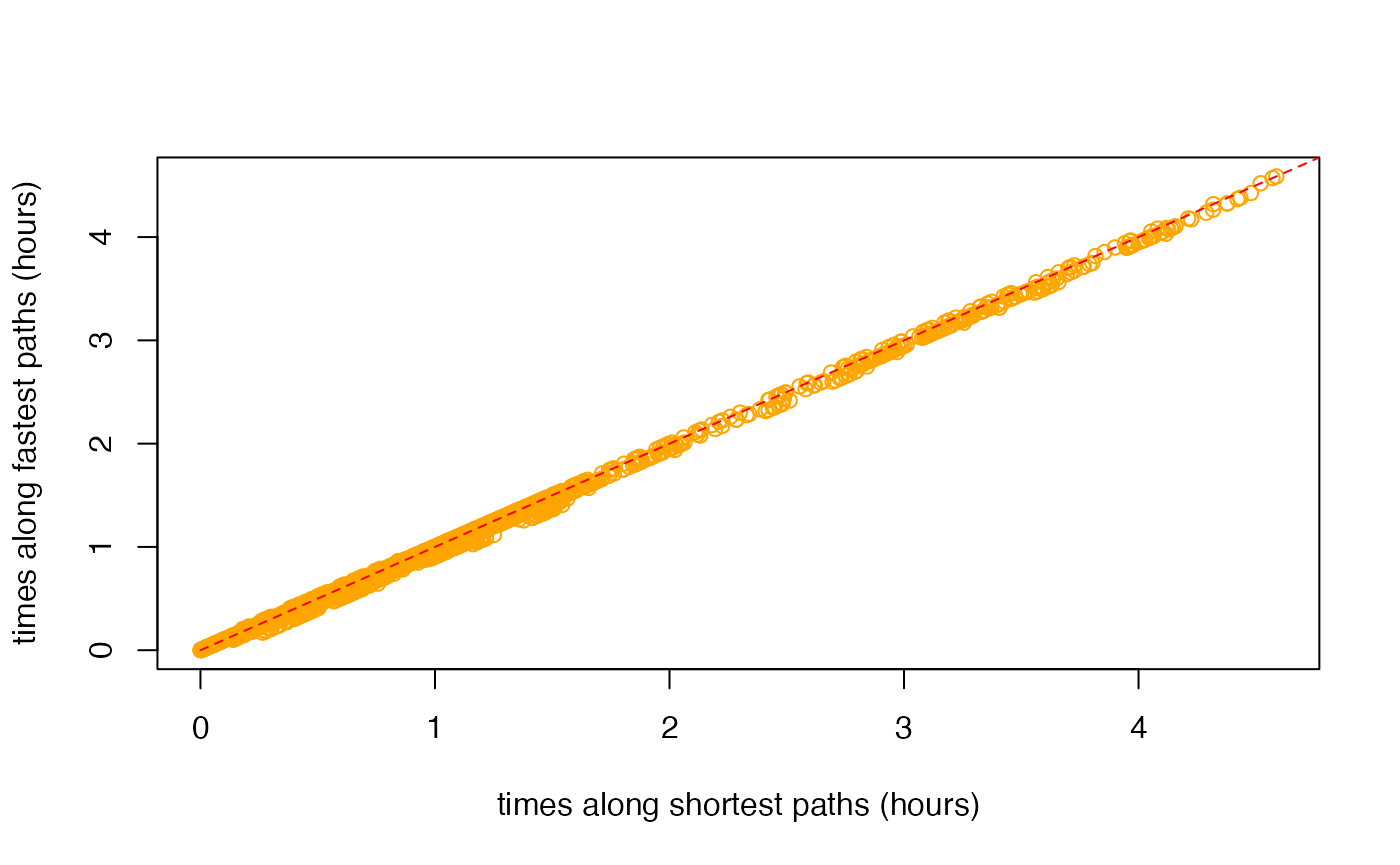
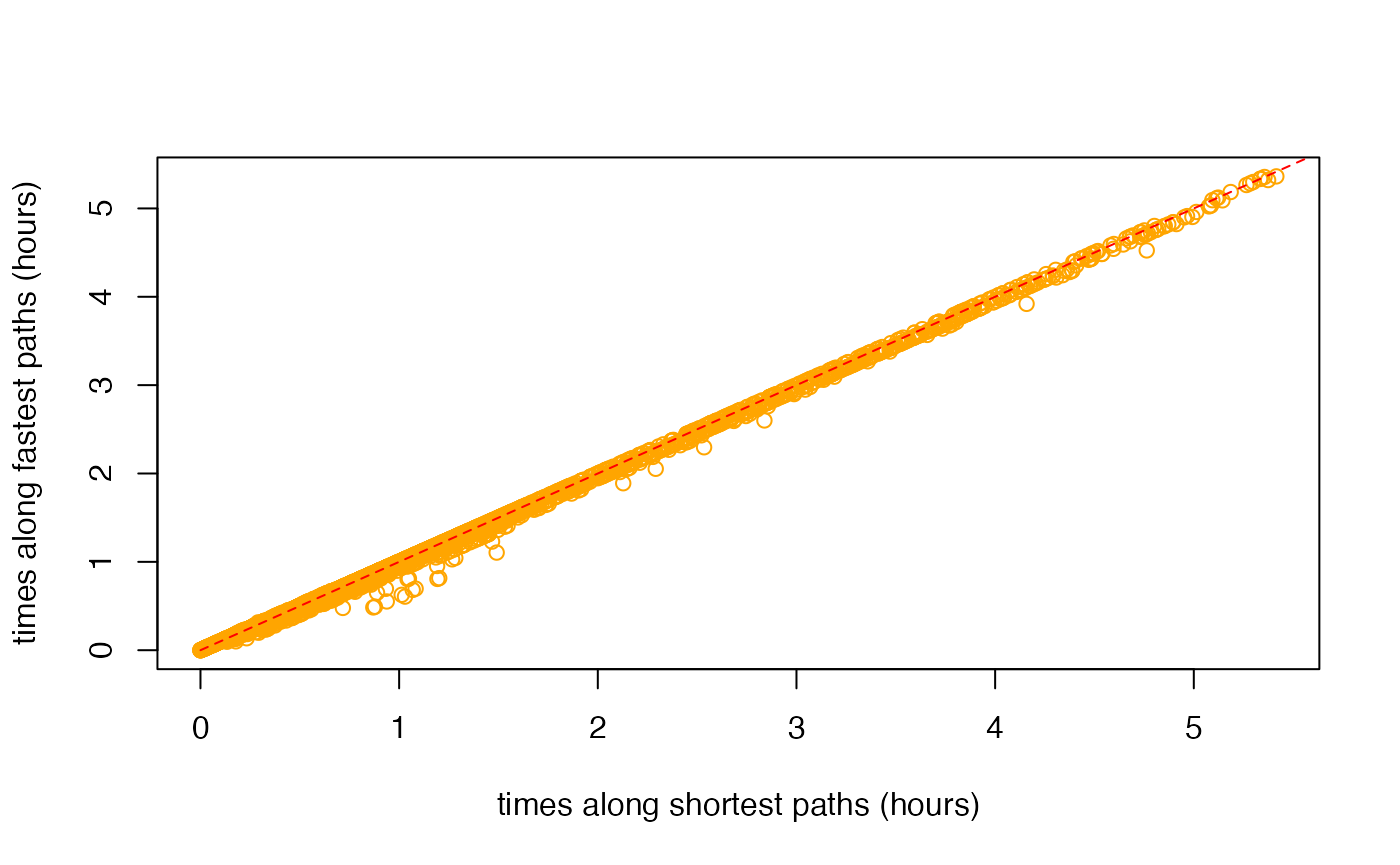
Built site for dodgr: 0.2.8.028@81db75e

diff --git a/articles/dodgr.html b/articles/dodgr.html
@@ -31,7 +31,7 @@
       </button>
       <span class="navbar-brand">
         <a class="navbar-link" href="../index.html">dodgr</a>
-        <span class="version label label-default" data-toggle="tooltip" data-placement="bottom" title="Released version">0.2.8.027</span>
+        <span class="version label label-default" data-toggle="tooltip" data-placement="bottom" title="Released version">0.2.8.028</span>
       </span>
     </div>
 
@@ -449,29 +449,29 @@
 <pre><code>##                                                                                   test
 ## 6       d &lt;- dodgr_dists(graph_contracted, from = from_id, to = to_id, heap = "BHeap")
 ## 11        d &lt;- dodgr_dists(graph_contracted, from = from_id, to = to_id, heap = "set")
-## 8     d &lt;- dodgr_dists(graph_contracted, from = from_id, to = to_id, heap = "TriHeap")
 ## 7       d &lt;- dodgr_dists(graph_contracted, from = from_id, to = to_id, heap = "FHeap")
+## 8     d &lt;- dodgr_dists(graph_contracted, from = from_id, to = to_id, heap = "TriHeap")
 ## 10     d &lt;- dodgr_dists(graph_contracted, from = from_id, to = to_id, heap = "Heap23")
 ## 9  d &lt;- dodgr_dists(graph_contracted, from = from_id, to = to_id, heap = "TriHeapExt")
 ## 1                  d &lt;- dodgr_dists(graph, from = from_id, to = to_id, heap = "BHeap")
 ## 12                  d &lt;- igraph::distances(igr, v = from_id, to = to_id, mode = "out")
 ## 2                  d &lt;- dodgr_dists(graph, from = from_id, to = to_id, heap = "FHeap")
-## 3                d &lt;- dodgr_dists(graph, from = from_id, to = to_id, heap = "TriHeap")
 ## 5                 d &lt;- dodgr_dists(graph, from = from_id, to = to_id, heap = "Heap23")
+## 3                d &lt;- dodgr_dists(graph, from = from_id, to = to_id, heap = "TriHeap")
 ## 4             d &lt;- dodgr_dists(graph, from = from_id, to = to_id, heap = "TriHeapExt")
 ##    replications elapsed relative user.self sys.self user.child sys.child
 ## 6             1   0.003    1.000     0.004    0.000          0         0
-## 11            1   0.003    1.000     0.004    0.000          0         0
-## 8             1   0.005    1.667     0.009    0.000          0         0
+## 11            1   0.004    1.333     0.004    0.000          0         0
 ## 7             1   0.006    2.000     0.008    0.001          0         0
-## 10            1   0.006    2.000     0.009    0.001          0         0
-## 9             1   0.009    3.000     0.008    0.000          0         0
-## 1             1   0.011    3.667     0.015    0.000          0         0
-## 12            1   0.016    5.333     0.017    0.000          0         0
+## 8             1   0.006    2.000     0.008    0.001          0         0
+## 10            1   0.006    2.000     0.008    0.001          0         0
+## 9             1   0.008    2.667     0.008    0.000          0         0
+## 1             1   0.012    4.000     0.018    0.001          0         0
+## 12            1   0.017    5.667     0.018    0.000          0         0
 ## 2             1   0.020    6.667     0.033    0.001          0         0
-## 3             1   0.021    7.000     0.036    0.000          0         0
-## 5             1   0.022    7.333     0.037    0.000          0         0
-## 4             1   0.032   10.667     0.033    0.001          0         0</code></pre>
+## 5             1   0.021    7.000     0.035    0.001          0         0
+## 3             1   0.022    7.333     0.038    0.000          0         0
+## 4             1   0.033   11.000     0.033    0.000          0         0</code></pre>
 <p>The key column of that <code>data.frame</code> is <code>relative</code>, which quantifies the relative performance of each test in relation to the best which is given a score of 1. <code>dodgr</code> using the default <code>heap = "BHeap"</code>, which is a binary heap priority queue, performs faster than <a href="https://igraph.org"><code>igraph</code></a> <span class="citation">(Csardi and Nepusz 2006)</span> for these graphs. Different kind of graphs will perform differently with different priority queue structures, and this function enables users to empirically discern the optimal heap for their kind of graph.</p>
 <p>Note, however, that this is not an entirely fair comparison, because <code>dodgr</code> calculates dual-weighted distances, whereas <a href="https://igraph.org"><code>igraph</code></a>—and indeed all other <strong>R</strong> packages—only directly calculate distances based on a single set of weights. Implementing dual-weighted routing in these cases requires explicitly re-tracing all paths and summing the second set of weights along each path. A time comparison in that case would be very strongly in favour of <code>dodgr</code>. Moreover, <code>dodgr</code> can convert graphs to contracted form through removing redundant vertices, as detailed in the following section. Doing so greatly improves performance with respect to <a href="https://igraph.org"><code>igraph</code></a>.</p>
 <p>For those wishing to do explicit comparisons themselves, the following code generates the <a href="https://igraph.org"><code>igraph</code></a> equivalent of <a href="https://atfutures.github.io/dodgr/reference/dodgr_distances.html"><code>dodgr_distances()</code></a>, although of course for single-weighted graphs only:</p>
@@ -506,11 +506,11 @@
                        <span class="va">d2</span> <span class="op">&lt;-</span> <span class="fu"><a href="../reference/dodgr_dists.html">dodgr_dists</a></span> <span class="op">(</span><span class="va">graph</span>, from <span class="op">=</span> <span class="va">from</span>, to <span class="op">=</span> <span class="va">to</span><span class="op">)</span>,
                        replications <span class="op">=</span> <span class="fl">2</span><span class="op">)</span></code></pre></div>
 <pre><code>##                                             test replications elapsed relative
-## 2 d2 &lt;- dodgr_dists(graph, from = from, to = to)            2   0.034    4.857
-## 1   d2 &lt;- dodgr_dists(grc, from = from, to = to)            2   0.007    1.000
+## 2 d2 &lt;- dodgr_dists(graph, from = from, to = to)            2   0.036        6
+## 1   d2 &lt;- dodgr_dists(grc, from = from, to = to)            2   0.006        1
 ##   user.self sys.self user.child sys.child
-## 2     0.043    0.001          0         0
-## 1     0.007    0.001          0         0</code></pre>
+## 2     0.044    0.001          0         0
+## 1     0.008    0.000          0         0</code></pre>
 <p>And contracting the graph has a similar effect of speeding up pairwise routing between these 100 points. All routing algorithms scale non-linearly with size, and relative improvements in efficiency will be even greater for larger graphs.</p>
 <div id="routing-on-contracted-graphs" class="section level2">
 <h2 class="hasAnchor">
@@ -524,12 +524,12 @@
 <div class="sourceCode" id="cb90"><pre class="downlit sourceCode r">
 <code class="sourceCode R"><span class="va">verts</span> <span class="op">&lt;-</span> <span class="fu"><a href="https://rdrr.io/r/base/sample.html">sample</a></span> <span class="op">(</span><span class="fu"><a href="../reference/dodgr_vertices.html">dodgr_vertices</a></span> <span class="op">(</span><span class="va">graph</span><span class="op">)</span><span class="op">$</span><span class="va">id</span>, size <span class="op">=</span> <span class="fl">100</span><span class="op">)</span>
 <span class="fu"><a href="https://rdrr.io/r/utils/head.html">head</a></span> <span class="op">(</span><span class="va">verts</span><span class="op">)</span> <span class="co"># a character vector</span></code></pre></div>
-<pre><code>## [1] "339577285"  "4046458350" "1427116037" "977478698"  "339574193" 
-## [6] "1376768983"</code></pre>
+<pre><code>## [1] "2398957601" "3921524453" "2195424962" "2195424972" "2398957607"
+## [6] "3818714156"</code></pre>
 <div class="sourceCode" id="cb92"><pre class="downlit sourceCode r">
 <code class="sourceCode R"><span class="va">grc</span> <span class="op">&lt;-</span> <span class="fu"><a href="../reference/dodgr_contract_graph.html">dodgr_contract_graph</a></span> <span class="op">(</span><span class="va">graph</span>, <span class="va">verts</span><span class="op">)</span>
 <span class="fu"><a href="https://rdrr.io/r/base/nrow.html">nrow</a></span> <span class="op">(</span><span class="va">grc</span><span class="op">)</span></code></pre></div>
-<pre><code>## [1] 850</code></pre>
+<pre><code>## [1] 848</code></pre>
 <p>Retaining the nominated vertices yields a graph with considerably more edges than the fully contracted graph excluding these vertices. The <a href="https://atfutures.github.io/dodgr/reference/dodgr_distances.html"><code>dodgr_distances()</code></a> function can be applied to the latter graph to obtain accurate distances precisely routed between these points, yet using the speed advantages of graph contraction.</p>
 </div>
 </div>
@@ -567,28 +567,22 @@
 <p>The result (<code>dp</code>) is a list of 10 items, each of which contains 5 vectors. An example is,</p>
 <div class="sourceCode" id="cb99"><pre class="downlit sourceCode r">
 <code class="sourceCode R"><span class="va">dp</span> <span class="op">[[</span><span class="fl">1</span><span class="op">]</span><span class="op">]</span> <span class="op">[[</span><span class="fl">1</span><span class="op">]</span><span class="op">]</span></code></pre></div>
-<pre><code>##  [1] "2398957634" "2398957633" "1427116000" "1427115996" "1427115980"
-##  [6] "1427115975" "338908089"  "2398957621" "2398957617" "2398957614"
-## [11] "338908066"  "2398957607" "2398957606" "338907906"  "2398957601"
-## [16] "338907879"  "2398957597" "2398957600" "2398957598" "2398957596"
-## [21] "338907666"  "338907642"  "338907597"  "2398957585" "338907543" 
-## [26] "338905220"  "2398957584" "1376769086" "1376768510" "2398957588"
-## [31] "2398957589" "338905219"  "1376768779" "1376769164" "338905128" 
-## [36] "1427115955" "339574628"  "2398957619" "339574629"  "339574630" 
-## [41] "2398957639" "2398957654" "1148814809" "2717241324" "2717241319"
-## [46] "2717241335" "2717241304" "2717241322" "2717241320" "2717241305"</code></pre>
+<pre><code>##  [1] "1376768862" "1376768398" "1376768975" "1376768614" "1376769209"
+##  [6] "1376768918" "1376768559" "6410121124" "2717241302" "2717241300"
+## [11] "2717241331" "2717241317" "2717241339" "2717241332" "2717241309"
+## [16] "2717241321" "2717241306" "2717241323" "2717241312" "1376768738"</code></pre>
 <p>For spatial graphs, the coordinates of these paths can be obtained by extracting the vertices with <code><a href="../reference/dodgr_vertices.html">dodgr_vertices()</a></code> and matching the vertex IDs:</p>
 <div class="sourceCode" id="cb101"><pre class="downlit sourceCode r">
 <code class="sourceCode R"><span class="va">verts</span> <span class="op">&lt;-</span> <span class="fu"><a href="../reference/dodgr_vertices.html">dodgr_vertices</a></span> <span class="op">(</span><span class="va">graph</span><span class="op">)</span>
 <span class="va">path1</span> <span class="op">&lt;-</span> <span class="va">verts</span> <span class="op">[</span><span class="fu"><a href="https://rdrr.io/r/base/match.html">match</a></span> <span class="op">(</span><span class="va">dp</span> <span class="op">[[</span><span class="fl">1</span><span class="op">]</span><span class="op">]</span> <span class="op">[[</span><span class="fl">1</span><span class="op">]</span><span class="op">]</span>, <span class="va">verts</span><span class="op">$</span><span class="va">id</span><span class="op">)</span>, <span class="op">]</span>
 <span class="fu"><a href="https://rdrr.io/r/utils/head.html">head</a></span> <span class="op">(</span><span class="va">path1</span><span class="op">)</span></code></pre></div>
-<pre><code>##            id        x        y component  n
-## 96 2398957634 76.47488 15.31528         1 49
-## 94 2398957633 76.47489 15.31522         1 48
-## 92 1427116000 76.47492 15.31519         1 47
-## 90 1427115996 76.47500 15.31511         1 46
-## 88 1427115980 76.47502 15.31501         1 45
-## 86 1427115975 76.47490 15.31465         1 44</code></pre>
+<pre><code>##              id        x        y component    n
+## 2620 1376768862 76.46813 15.32844         1 1319
+## 5647 1376768398 76.46811 15.32831         1 2785
+## 5908 1376768975 76.46819 15.32825         1 2901
+## 5906 1376768614 76.46832 15.32767         1 2900
+## 5904 1376769209 76.46837 15.32745         1 2899
+## 5902 1376768918 76.46835 15.32735         1 2898</code></pre>
 <p>Paths calculated on contracted graphs will of course have fewer vertices than those calculated on full graphs.</p>
 </div>
 <div id="bibliography" class="section level1 unnumbered">

diff --git a/articles/times.html b/articles/times.html
@@ -31,7 +31,7 @@
       </button>
       <span class="navbar-brand">
         <a class="navbar-link" href="../index.html">dodgr</a>
-        <span class="version label label-default" data-toggle="tooltip" data-placement="bottom" title="Released version">0.2.8.027</span>
+        <span class="version label label-default" data-toggle="tooltip" data-placement="bottom" title="Released version">0.2.8.028</span>
       </span>
     </div>
 
@@ -232,12 +232,12 @@
 <p>The average distance between the two (in metres) is:</p>
 <div class="sourceCode" id="cb9"><pre class="downlit sourceCode r">
 <code class="sourceCode R"><span class="fu"><a href="https://rdrr.io/r/base/mean.html">mean</a></span> <span class="op">(</span><span class="fu"><a href="https://rdrr.io/r/base/MathFun.html">abs</a></span> <span class="op">(</span><span class="va">d_time</span> <span class="op">-</span> <span class="va">d_dist</span><span class="op">)</span>, na.rm <span class="op">=</span> <span class="cn">TRUE</span><span class="op">)</span></code></pre></div>
-<pre><code>## [1] 33.08481</code></pre>
+<pre><code>## [1] 48.02925</code></pre>
 <p>The plot reveals that shortest distances are indeed somewhat shorter than distances along fastest paths, but also that some fastest paths are actually shorter than shortest paths:</p>
 <div class="sourceCode" id="cb11"><pre class="downlit sourceCode r">
 <code class="sourceCode R"><span class="va">index</span> <span class="op">&lt;-</span> <span class="fu"><a href="https://rdrr.io/r/base/which.html">which</a></span> <span class="op">(</span><span class="op">!</span><span class="fu"><a href="https://rdrr.io/r/base/NA.html">is.na</a></span> <span class="op">(</span><span class="va">d_time</span><span class="op">)</span> <span class="op">&amp;</span> <span class="op">!</span><span class="fu"><a href="https://rdrr.io/r/base/NA.html">is.na</a></span> <span class="op">(</span><span class="va">d_dist</span><span class="op">)</span><span class="op">)</span>
 <span class="fu"><a href="https://rdrr.io/r/base/length.html">length</a></span> <span class="op">(</span><span class="fu"><a href="https://rdrr.io/r/base/which.html">which</a></span> <span class="op">(</span><span class="va">d_time</span> <span class="op">[</span><span class="va">index</span><span class="op">]</span> <span class="op">&lt;</span> <span class="va">d_dist</span> <span class="op">[</span><span class="va">index</span><span class="op">]</span><span class="op">)</span><span class="op">)</span> <span class="op">/</span> <span class="fu"><a href="https://rdrr.io/r/base/length.html">length</a></span> <span class="op">(</span><span class="va">index</span><span class="op">)</span></code></pre></div>
-<pre><code>## [1] 0.02043133</code></pre>
+<pre><code>## [1] 0.01957164</code></pre>
 <p>While <code>dodgr</code> and indeed all routing engines attempt to maximally reconcile differences between fastest and shortest routes, there nevertheless remain important discrepancies. Foremost among these, and the primary reason why some fastest routes may in fact be shorter than shortest routes, is that fastest routes allocate preferences for different kinds of way based both on the <code>value</code> column in the <code>weighting_profiles$weighting_profiles</code> table illustrated above, and on the actual maximum speed of a given edge, which itself may be a combination of maximum speeds as specified in OSM itself, maximum speeds from the <code>weighting_profiles$weighting_profiles</code> table, or values specific to a given surface. The result is that some unique combination of maximum speeds along a network may lead to <em>fastest</em> routes being preferentially directed along a path that is actually shorter than the direct shortest path which is calculated independent of maximum speed values.</p>
 <p>Such discrepancies are important in understanding differences in routes <em>times</em> calculated along shortest versus fastest paths. These times can be calculated (in seconds) with the <a href="https://atfutures.github.io/dodgr/reference/dodgr_times.html"><code>dodgr_times()</code></a> function:</p>
 <div class="sourceCode" id="cb13"><pre class="downlit sourceCode r">
@@ -250,12 +250,12 @@
 <p><img src="times_files/figure-html/shortest-vs-fastest-times-1.png" width="700"></p>
 <div class="sourceCode" id="cb14"><pre class="downlit sourceCode r">
 <code class="sourceCode R"><span class="fu"><a href="https://rdrr.io/r/base/mean.html">mean</a></span> <span class="op">(</span><span class="fu"><a href="https://rdrr.io/r/base/MathFun.html">abs</a></span> <span class="op">(</span><span class="va">t_time</span> <span class="op">-</span> <span class="va">t_dist</span><span class="op">)</span>, na.rm <span class="op">=</span> <span class="cn">TRUE</span><span class="op">)</span></code></pre></div>
-<pre><code>## [1] 36.62913</code></pre>
+<pre><code>## [1] 49.51484</code></pre>
 <p>As above, times along fastest paths are generally less than times along shortest paths, although there are again a few exceptions:</p>
 <div class="sourceCode" id="cb16"><pre class="downlit sourceCode r">
 <code class="sourceCode R"><span class="va">index</span> <span class="op">&lt;-</span> <span class="fu"><a href="https://rdrr.io/r/base/which.html">which</a></span> <span class="op">(</span><span class="op">!</span><span class="fu"><a href="https://rdrr.io/r/base/NA.html">is.na</a></span> <span class="op">(</span><span class="va">t_time</span><span class="op">)</span> <span class="op">&amp;</span> <span class="op">!</span><span class="fu"><a href="https://rdrr.io/r/base/NA.html">is.na</a></span> <span class="op">(</span><span class="va">t_dist</span><span class="op">)</span><span class="op">)</span>
 <span class="fu"><a href="https://rdrr.io/r/base/length.html">length</a></span> <span class="op">(</span><span class="fu"><a href="https://rdrr.io/r/base/which.html">which</a></span> <span class="op">(</span><span class="va">t_dist</span> <span class="op">[</span><span class="va">index</span><span class="op">]</span> <span class="op">&lt;</span> <span class="va">t_time</span> <span class="op">[</span><span class="va">index</span><span class="op">]</span><span class="op">)</span><span class="op">)</span> <span class="op">/</span> <span class="fu"><a href="https://rdrr.io/r/base/length.html">length</a></span> <span class="op">(</span><span class="va">index</span><span class="op">)</span></code></pre></div>
-<pre><code>## [1] 0.01210745</code></pre>
+<pre><code>## [1] 0.01606352</code></pre>
 <p>These results demonstrate how the combination of the <a href="https://atfutures.github.io/dodgr/reference/dodgr_distances.html"><code>dodgr_distances()</code></a> and <a href="https://atfutures.github.io/dodgr/reference/dodgr_times.html"><code>dodgr_times()</code></a> functions enable calculation of both distances and times along both shortest and fastest paths.</p>
 <div id="time-based-paths-and-flow-aggregation" class="section level2">
 <h2 class="hasAnchor">

diff --git a/articles/flows.html b/articles/flows.html
@@ -31,7 +31,7 @@
       </button>
       <span class="navbar-brand">
         <a class="navbar-link" href="../index.html">dodgr</a>
-        <span class="version label label-default" data-toggle="tooltip" data-placement="bottom" title="Released version">0.2.8.027</span>
+        <span class="version label label-default" data-toggle="tooltip" data-placement="bottom" title="Released version">0.2.8.028</span>
       </span>
     </div>
 
@@ -109,18 +109,18 @@
 ## 4   8.888670   11.11084 unclassified 28565950         1  6.399842      7.999803
 ## 5   9.326536   11.65817 unclassified 28565950         1  6.715106      8.393882
 ## 6   9.326536   11.65817 unclassified 28565950         1  6.715106      8.393882
-##   flow
-## 1    0
-## 2    0
-## 3    0
-## 4    0
-## 5    0
-## 6    0</code></pre>
+##        flow
+## 1 0.0000000
+## 2 0.4848533
+## 3 0.0000000
+## 4 0.4848533
+## 5 0.0000000
+## 6 0.4848533</code></pre>
 <p>Most flows are zero because they have only been calculated between very few points in the graph.</p>
 <div class="sourceCode" id="cb4"><pre class="downlit sourceCode r">
 <code class="sourceCode R"><span class="fu"><a href="https://rdrr.io/r/base/summary.html">summary</a></span> <span class="op">(</span><span class="va">graph_f</span><span class="op">$</span><span class="va">flow</span><span class="op">)</span></code></pre></div>
 <pre><code>##    Min. 1st Qu.  Median    Mean 3rd Qu.    Max. 
-## 0.00000 0.00000 0.00000 0.03739 0.00000 1.05851</code></pre>
+## 0.00000 0.00000 0.00000 0.04146 0.00000 7.81030</code></pre>
 </div>
 <div id="flow-dispersal" class="section level2">
 <h2 class="hasAnchor">
@@ -131,7 +131,7 @@
 <span class="va">graph_f</span> <span class="op">&lt;-</span> <span class="fu"><a href="../reference/dodgr_flows_disperse.html">dodgr_flows_disperse</a></span> <span class="op">(</span><span class="va">graph</span>, from <span class="op">=</span> <span class="va">from</span>, dens <span class="op">=</span> <span class="va">dens</span><span class="op">)</span>
 <span class="fu"><a href="https://rdrr.io/r/base/summary.html">summary</a></span> <span class="op">(</span><span class="va">graph_f</span><span class="op">$</span><span class="va">flow</span><span class="op">)</span></code></pre></div>
 <pre><code>##      Min.   1st Qu.    Median      Mean   3rd Qu.      Max. 
-## 0.000e+00 0.000e+00 9.509e-05 1.674e-03 1.148e-03 4.238e-02</code></pre>
+## 0.0000000 0.0000000 0.0001263 0.0016742 0.0018603 0.0394677</code></pre>
 </div>
 <div id="merging-directed-flows" class="section level2">
 <h2 class="hasAnchor">
@@ -143,7 +143,7 @@
 <div class="sourceCode" id="cb9"><pre class="downlit sourceCode r">
 <code class="sourceCode R"><span class="fu"><a href="https://rdrr.io/r/base/nrow.html">nrow</a></span> <span class="op">(</span><span class="va">graph_f</span><span class="op">)</span>; <span class="fu"><a href="https://rdrr.io/r/base/nrow.html">nrow</a></span> <span class="op">(</span><span class="va">graph_undir</span><span class="op">)</span> <span class="co"># the latter is much smaller</span></code></pre></div>
 <pre><code>## [1] 5973</code></pre>
-<pre><code>## [1] 2878</code></pre>
+<pre><code>## [1] 2876</code></pre>
 <p>The resultant graph can readily be merged with the original graph to regain the original data on vertex coordinates through</p>
 <div class="sourceCode" id="cb12"><pre class="downlit sourceCode r">
 <code class="sourceCode R"><span class="va">graph</span> <span class="op">&lt;-</span> <span class="va">graph</span> <span class="op">[</span><span class="va">graph_undir</span><span class="op">$</span><span class="va">edge_id</span>, <span class="op">]</span>

diff --git a/reference/estimate_centrality_threshold.html b/reference/estimate_centrality_threshold.html
@@ -76,7 +76,7 @@ values of 'dist_threshold' corresponding to specific degrees of accuracy." />
       </button>
       <span class="navbar-brand">
         <a class="navbar-link" href="../index.html">dodgr</a>
-        <span class="version label label-default" data-toggle="tooltip" data-placement="bottom" title="Released version">0.2.8.027</span>
+        <span class="version label label-default" data-toggle="tooltip" data-placement="bottom" title="Released version">0.2.8.028</span>
       </span>
     </div>
 

diff --git a/reference/merge_directed_graph.html b/reference/merge_directed_graph.html
@@ -76,7 +76,7 @@ return columns of aggregated flows directed along each edge of a graph." />
       </button>
       <span class="navbar-brand">
         <a class="navbar-link" href="../index.html">dodgr</a>
-        <span class="version label label-default" data-toggle="tooltip" data-placement="bottom" title="Released version">0.2.8.027</span>
+        <span class="version label label-default" data-toggle="tooltip" data-placement="bottom" title="Released version">0.2.8.028</span>
       </span>
     </div>
 

diff --git a/reference/weighting_profiles.html b/reference/weighting_profiles.html
@@ -75,7 +75,7 @@ type of surface, and waiting times in seconds at traffic lights." />
       </button>
       <span class="navbar-brand">
         <a class="navbar-link" href="../index.html">dodgr</a>
-        <span class="version label label-default" data-toggle="tooltip" data-placement="bottom" title="Released version">0.2.8.027</span>
+        <span class="version label label-default" data-toggle="tooltip" data-placement="bottom" title="Released version">0.2.8.028</span>
       </span>
     </div>
 

diff --git a/reference/dodgr_uncontract_graph.html b/reference/dodgr_uncontract_graph.html
@@ -75,7 +75,7 @@ on to the original graph, as demonstrated in the example." />
       </button>
       <span class="navbar-brand">
         <a class="navbar-link" href="../index.html">dodgr</a>
-        <span class="version label label-default" data-toggle="tooltip" data-placement="bottom" title="Released version">0.2.8.027</span>
+        <span class="version label label-default" data-toggle="tooltip" data-placement="bottom" title="Released version">0.2.8.028</span>
       </span>
     </div>
 

diff --git a/reference/dodgr_isoverts.html b/reference/dodgr_isoverts.html
@@ -76,7 +76,7 @@ isodistances, or one or more tlim values for isochrones." />
       </button>
       <span class="navbar-brand">
         <a class="navbar-link" href="../index.html">dodgr</a>
-        <span class="version label label-default" data-toggle="tooltip" data-placement="bottom" title="Released version">0.2.8.027</span>
+        <span class="version label label-default" data-toggle="tooltip" data-placement="bottom" title="Released version">0.2.8.028</span>
       </span>
     </div>
 

diff --git a/reference/dodgr_cache_on.html b/reference/dodgr_cache_on.html
@@ -73,7 +73,7 @@ after caching has been turned off with dodgr_cache_off." />
       </button>
       <span class="navbar-brand">
         <a class="navbar-link" href="../index.html">dodgr</a>
-        <span class="version label label-default" data-toggle="tooltip" data-placement="bottom" title="Released version">0.2.8.027</span>
+        <span class="version label label-default" data-toggle="tooltip" data-placement="bottom" title="Released version">0.2.8.028</span>
       </span>
     </div>
 

diff --git a/reference/weight_streetnet.html b/reference/weight_streetnet.html
@@ -74,7 +74,7 @@ bicycle, moped, motorcycle, motorcar, goods, hgv, psv)." />
       </button>
       <span class="navbar-brand">
         <a class="navbar-link" href="../index.html">dodgr</a>
-        <span class="version label label-default" data-toggle="tooltip" data-placement="bottom" title="Released version">0.2.8.027</span>
+        <span class="version label label-default" data-toggle="tooltip" data-placement="bottom" title="Released version">0.2.8.028</span>
       </span>
     </div>
 

diff --git a/reference/dodgr_sflines_to_poly.html b/reference/dodgr_sflines_to_poly.html
@@ -73,7 +73,7 @@ fundamental cycles within the LINESTRING objects." />
       </button>
       <span class="navbar-brand">
         <a class="navbar-link" href="../index.html">dodgr</a>
-        <span class="version label label-default" data-toggle="tooltip" data-placement="bottom" title="Released version">0.2.8.027</span>
+        <span class="version label label-default" data-toggle="tooltip" data-placement="bottom" title="Released version">0.2.8.028</span>
       </span>
     </div>
 

diff --git a/reference/dodgr_flows_si.html b/reference/dodgr_flows_si.html
@@ -74,7 +74,7 @@ points, and associated vectors of densities." />
       </button>
       <span class="navbar-brand">
         <a class="navbar-link" href="../index.html">dodgr</a>
-        <span class="version label label-default" data-toggle="tooltip" data-placement="bottom" title="Released version">0.2.8.027</span>
+        <span class="version label label-default" data-toggle="tooltip" data-placement="bottom" title="Released version">0.2.8.028</span>
       </span>
     </div>
 
